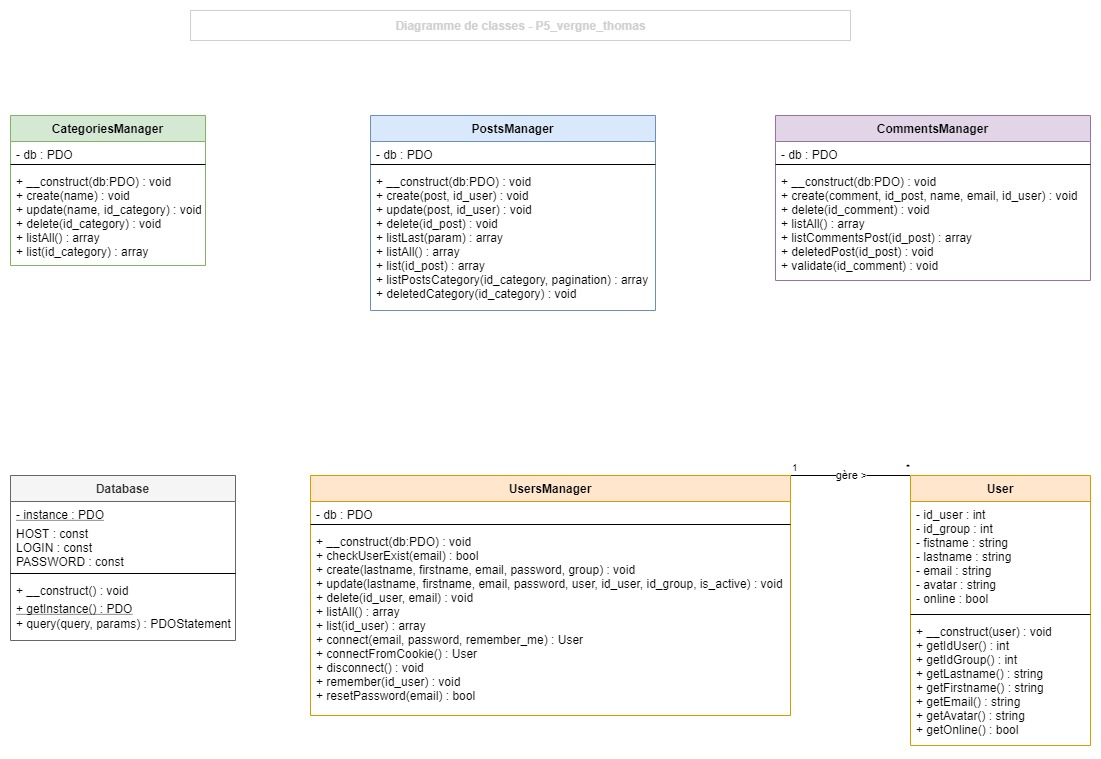
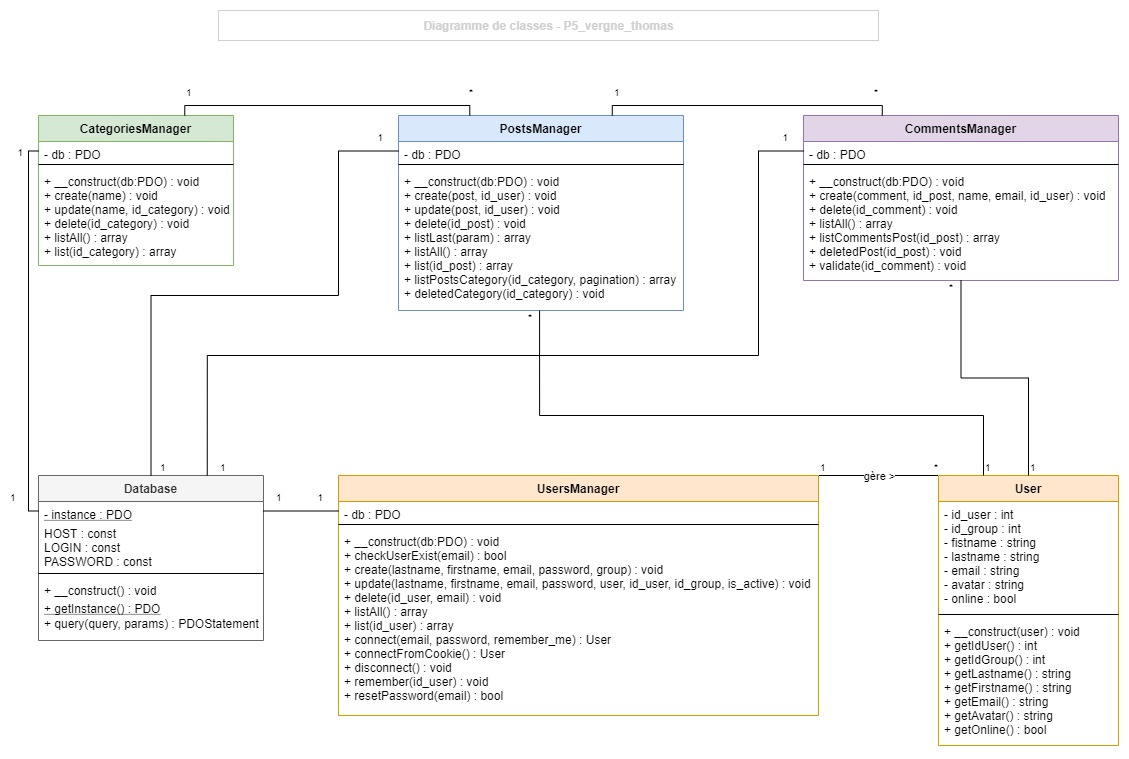
Updates
Readme + Diagrams

diff --git a/README.md b/README.md
@@ -1,17 +1,23 @@
 # P5_vergne_thomas [![Codacy Badge](https://app.codacy.com/project/badge/Grade/71a9b4201ed14d6097ae606f2e40ed29)](https://www.codacy.com/manual/Engrev/P5_vergne_thomas?utm_source=github.com&amp;utm_medium=referral&amp;utm_content=Engrev/P5_vergne_thomas&amp;utm_campaign=Badge_Grade)
 
+Require :
+* Development environment
+* Apache server 2.4
+* PHP >= 7.2
+* MySQL 5.7
+
 Get started :
-- Clone the repository with : _git clone https://github.com/Engrev/P5_vergne_thomas.git_.
-- Make a _composer install_.
-- Modify _PATH_, _COOKIE_DOMAIN_ and _COOKIE_PATH_ variables in _core/defines.php_ file according to your environment.
-- Modify constants in _core/Database.php_ file according to your environment.
-- Create _mail.txt_ file in _core_ folder with on line :
+* Clone the repository with : _git clone https://github.com/Engrev/P5_vergne_thomas.git_.
+* Make a _composer install_.
+* Modify _PATH_, _COOKIE_DOMAIN_ and _COOKIE_PATH_ variables in _core/defines.php_ file according to your environment.
+* Modify constants in _core/Database.php_ file according to your environment.
+* Create _mail.txt_ file in _core_ folder with on line :
 1. SMTP server.
 2. SMTP username.
 3. SMTP password.
 4. TCP port. And that's all !
-- Modify _DOMAINE_NAME_ variable in _core/defines.php_ file. This is the domain name of the email address you will use.
-- To have the text editor "Tinymce" in your language, follow this [link](https://www.tiny.cloud/get-tiny/language-packages/) and download your language.
+* Modify _DOMAINE_NAME_ variable in _core/defines.php_ file. This is the domain name of the email address you will use.
+* To have the text editor "Tinymce" in your language, follow this [link](https://www.tiny.cloud/get-tiny/language-packages/) and download your language.
   Then unzip the archive and place the _langs_ folder in the _vendor/tinymce/tinymce_ folder.
   Finally, modify "LANGUAGE" in the _public/js/tinymce.js_ file.
-- Go to the root of the project on your browser.
+* Go to the root of the project on your browser.
